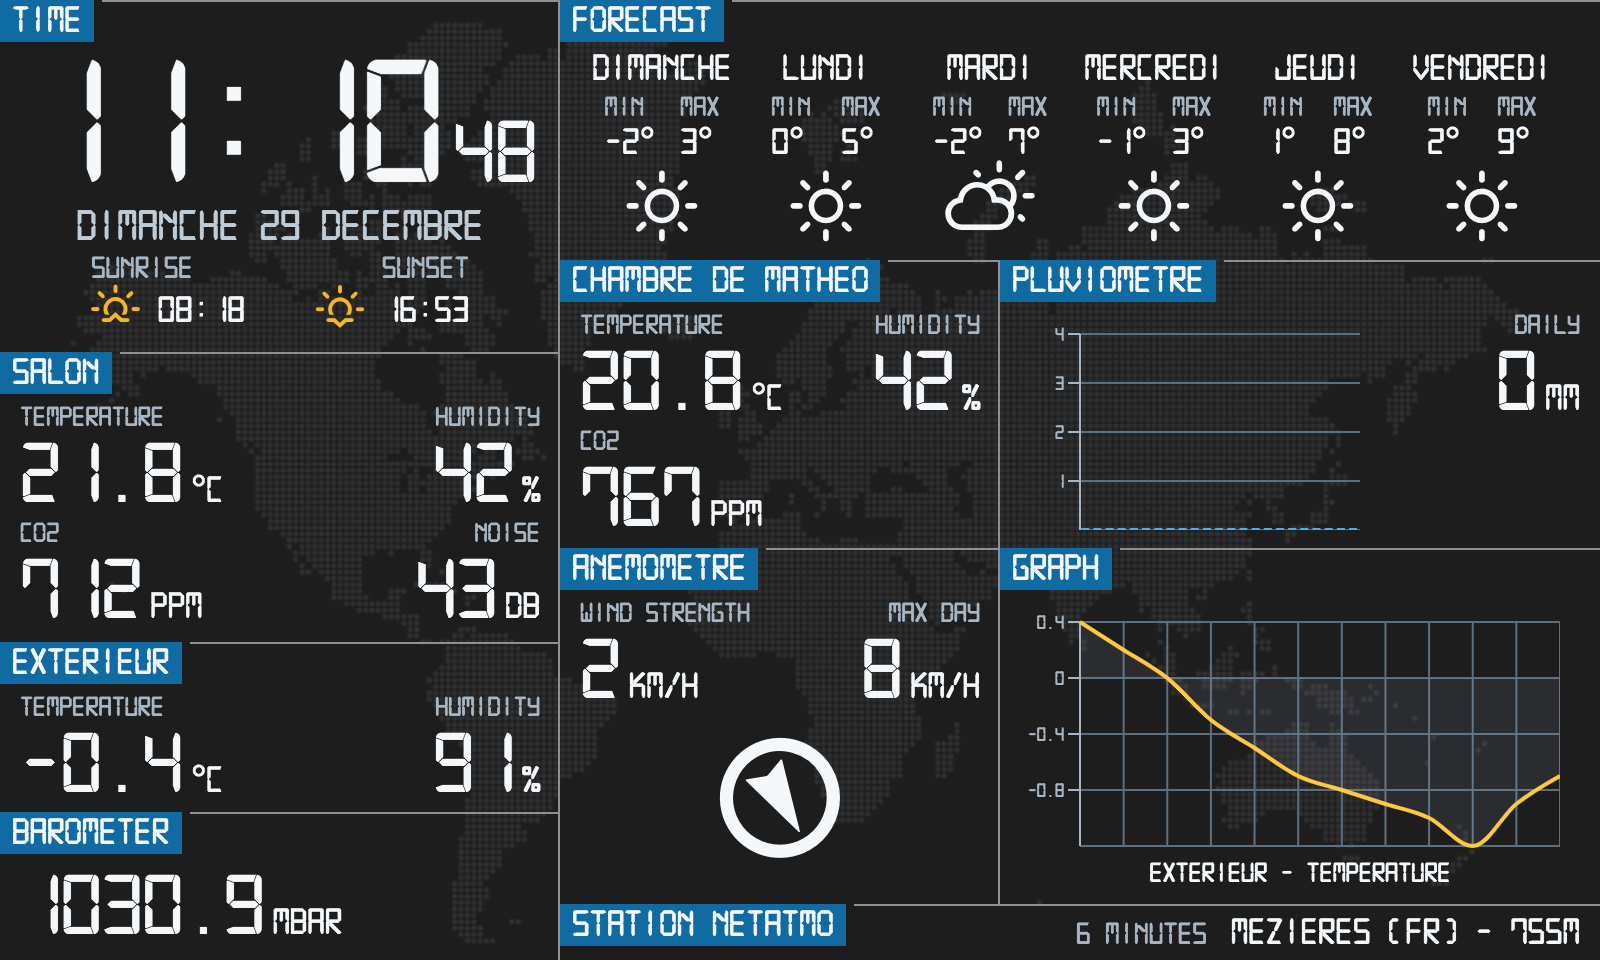
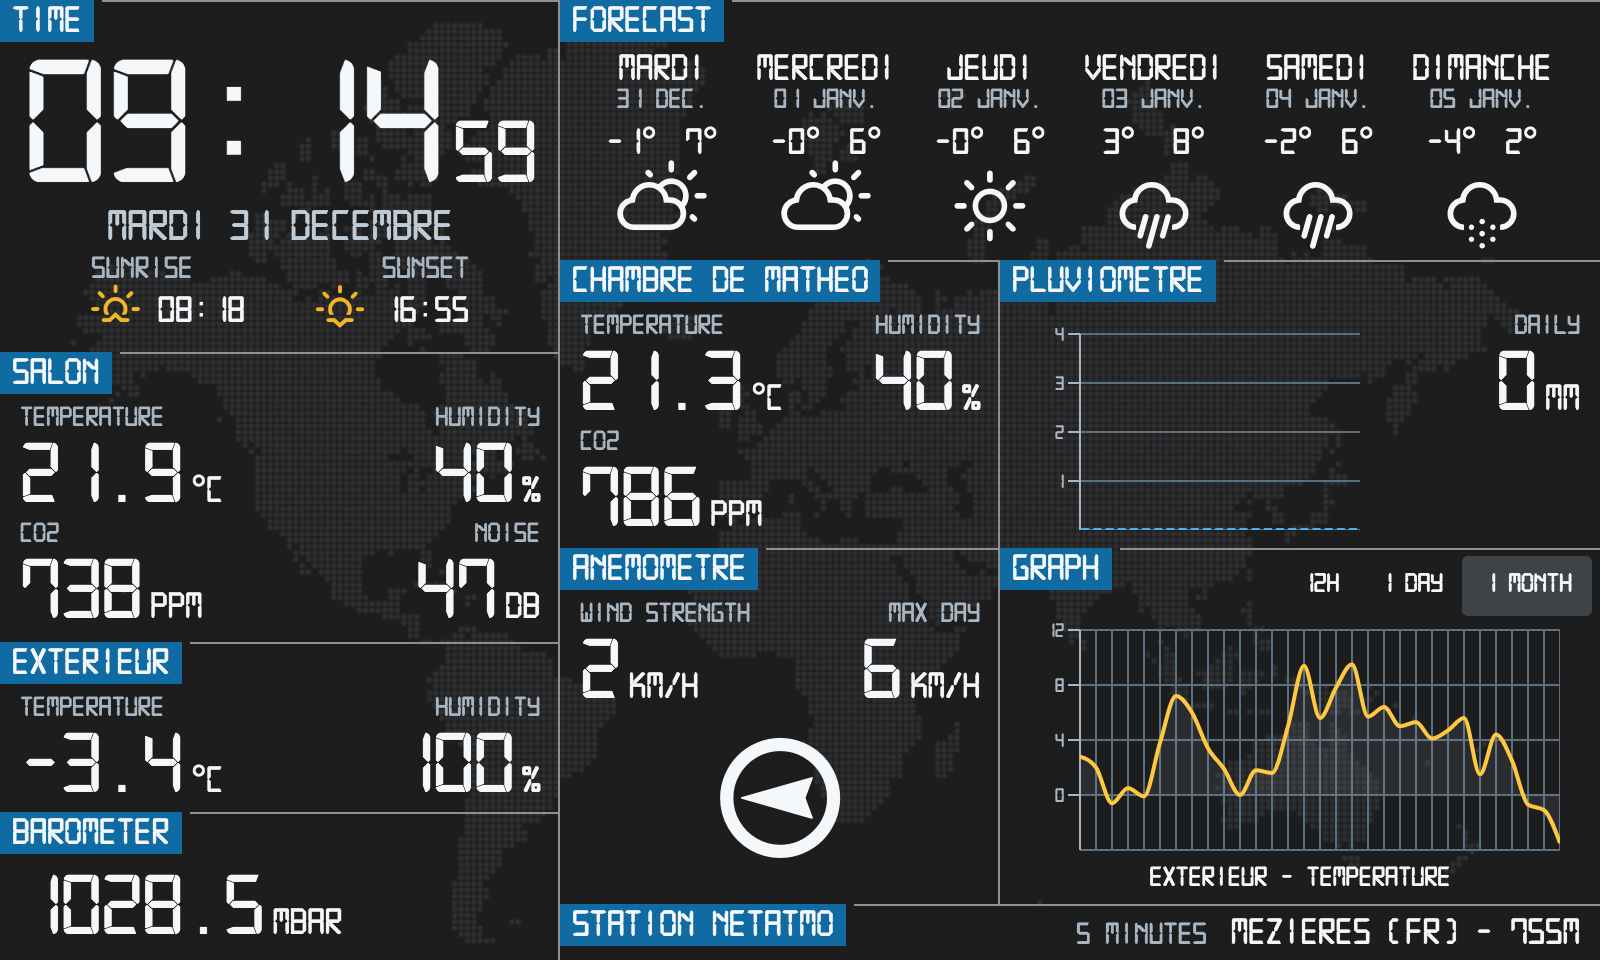
Add ability to change time lapse for graph between 12h, 1 day or 1 month

diff --git a/client/components/ModuleNetatmoGraph.tsx b/client/components/ModuleNetatmoGraph.tsx
@@ -1,22 +1,34 @@
 import React from 'react';
-import { Colors } from "@blueprintjs/core";
+import { Alignment, Button, ButtonGroup, Colors } from "@blueprintjs/core";
 import { AreaChart, Area, CartesianGrid, XAxis, YAxis } from 'recharts';
 import removeAccents from 'remove-accents';
 import ModuleLayout from "../layouts/ModuleLayout";
 import {Types} from "../models/NetatmoChartsData";
 import {colorChooser} from "../utils/tools";
 import {INetatmoNAMain} from "../models/NetatmoNAMain";
+import * as netatmoActions from "../store/netatmo/actions";
+import {ConnectedReduxProps} from "../store";
 
 // Separate state props + dispatch props to their own interfaces.
 interface IPropsFromState {
     measure_data: []
     selected_types: Types[]
-    selected_module: string,
+    selected_module: string
+    selected_timelapse: '12h'|'1d'|'1m'
     station_data: INetatmoNAMain|undefined
 }
 
+// We can use `typeof` here to map our dispatch types to the props, like so.
+interface IPropsFromDispatch {
+    [key: string]: any
+    fetchMeasure: typeof netatmoActions.fetchMeasure
+}
+
+// Combine both state + dispatch props - as well as any props we want to pass - in a union type.
+type AllProps = IPropsFromState & IPropsFromDispatch & ConnectedReduxProps;
+
 /** Rain module */
-class NetatmoModuleGraph extends React.Component<IPropsFromState> {
+class NetatmoModuleGraph extends React.Component<AllProps> {
 
     private findModuleName = (module_id: string) => {
         // @ts-ignore
@@ -37,6 +49,10 @@ class NetatmoModuleGraph extends React.Component<IPropsFromState> {
         }
     };
 
+    private handleOnclick = (timelapse: '12h'|'1d'|'1m'): void => {
+        this.props.fetchMeasure(this.props.station_data?.id as string, this.props.selected_module, this.props.selected_types, timelapse);
+    };
+
     public render() {
         return (
             <ModuleLayout
@@ -44,11 +60,25 @@ class NetatmoModuleGraph extends React.Component<IPropsFromState> {
                 reachable={true}
             >
                 <div className="modules-layout">
+                    <ButtonGroup className="toolbar" alignText={Alignment.CENTER} minimal={true}>
+                        <Button
+                            active={this.props.selected_timelapse === '12h'}
+                            onClick={() => this.handleOnclick('12h')}
+                        >12h</Button>
+                        <Button
+                            active={this.props.selected_timelapse === '1d'}
+                            onClick={() => this.handleOnclick('1d')}
+                        >1 day</Button>
+                        <Button
+                            active={this.props.selected_timelapse === '1m'}
+                            onClick={() => this.handleOnclick('1m')}
+                        >1 month</Button>
+                    </ButtonGroup>
                     <AreaChart
                         width={270}
-                        height={130}
+                        height={132}
                         data={this.props.measure_data}
-                        margin={{top: 10, right: 0, left: -30, bottom: 8}}
+                        margin={{top: 14, right: 0, left: -30, bottom: 8}}
                     >
                         <CartesianGrid stroke={Colors.GRAY1} />
                         <YAxis tick={{fontSize: '10px'}} stroke={Colors.GRAY4} minTickGap={1} />

diff --git a/client/store/netatmo/actions.ts b/client/store/netatmo/actions.ts
@@ -195,12 +195,13 @@ export const requestMeasure = () => {
 };
 
 // Todo types
-export const successMeasure = (data: any, module: string, types: string[]) => {
+export const successMeasure = (data: any, module: string, types: string[], timelapse: '12h'|'1d'|'1m') => {
     return {
         type: NetatmoActionTypes.MEASURE_SUCCESS,
         payload: data,
         module: module,
         types: types,
+        timelapse: timelapse,
         receivedAt: Date.now()
     }
 };
@@ -213,13 +214,33 @@ export const failureMeasure = (error: any) => {
     }
 };
 
-export const fetchMeasure = (device: string, module: string, type: string[], hours: number = 12, scale: Scale = '1hour'): ThunkAction<void, ApplicationState, null, Action<string>> => {
+export const fetchMeasure = (device: string, module: string, type: string[], timelapse: '12h'|'1d'|'1m'): ThunkAction<void, ApplicationState, null, Action<string>> => {
     return (dispatch, getState) => {
         // Get measure only if we have no data or if the last fetch is bigger than 10 minutes
-        if (getState().netatmo.measure_data.length === 0 || (getState().netatmo.selected_types[0] !== type[0] || getState().netatmo.selected_module !== module) || moment().diff(moment.unix(Number(getState().netatmo.station_data?.last_status_store)), 'minute') > 10) {
+        if (getState().netatmo.measure_data.length === 0 ||
+            (getState().netatmo.selected_types[0] !== type[0] || getState().netatmo.selected_module !== module) ||
+            getState().netatmo.selected_timelapse !== timelapse ||
+            moment().diff(moment.unix(Number(getState().netatmo.station_data?.last_status_store)), 'minute') > 10) {
             dispatch(requestMeasure());
 
-            const date_begin = moment().subtract(hours, 'hours').unix();
+            let date_begin;
+            let scale;
+
+            switch (timelapse) {
+                case "12h":
+                    date_begin = moment().subtract(11, 'hours').unix();
+                    scale = '30min';
+                    break;
+                case "1d":
+                    date_begin = moment().subtract(23, 'hours').unix();
+                    scale = '1hour';
+                    break;
+                case "1m":
+                    date_begin = moment().subtract(1, 'months').unix();
+                    scale = '1day';
+                    break;
+            }
+
             const date_end = moment().unix();
 
             return fetch(`${NETATMO_API_ROOT_URL}api/getmeasure?access_token=${getState().netatmo.access_token}&device_id=${device}&module_id=${module}&scale=${scale}&type=${type}&date_begin=${date_begin}&date_end=${date_end}&optimize=false`)
@@ -229,7 +250,7 @@ export const fetchMeasure = (device: string, module: string, type: string[], hou
                 })
                 .then(json => {
                     const dataChart = new NetatmoChartsData(json.body, type);
-                    dispatch(successMeasure(dataChart.data, module, type))
+                    dispatch(successMeasure(dataChart.data, module, type, timelapse))
                 })
                 .catch(error => {
                     // Todo types

diff --git a/client/components/ModuleNetatmoStation.tsx b/client/components/ModuleNetatmoStation.tsx
@@ -11,6 +11,7 @@ import {ConnectedReduxProps} from "../store";
 interface IPropsFromState {
     station_data: INetatmoNAMain|undefined
     device_id: string|undefined
+    selected_timelapse: '12h'|'1d'|'1m'
 }
 
 // We can use `typeof` here to map our dispatch types to the props, like so.
@@ -32,21 +33,21 @@ const NetatmoModuleStation: React.FunctionComponent<AllProps> = (props) => {
         >
             <div className="modules-layout">
                 <div className="row">
-                    <div className="temperature" onClick={() => props.fetchMeasure(props.device_id as string, props.device_id as string, ['Temperature'])}>
+                    <div className="temperature" onClick={() => props.fetchMeasure(props.device_id as string, props.device_id as string, ['Temperature'], props.selected_timelapse)}>
                         <div className="sub-label" style={{ color: Colors.GRAY4 }}>Temperature</div>
                         {props.station_data?.data?.temperature}<small>°C</small>
                     </div>
-                    <div className="humidity" onClick={() => props.fetchMeasure(props.device_id as string, props.device_id as string, ['Humidity'])}>
+                    <div className="humidity" onClick={() => props.fetchMeasure(props.device_id as string, props.device_id as string, ['Humidity'], props.selected_timelapse)}>
                         <div className="sub-label" style={{ color: Colors.GRAY4, textAlign: "right" }}>Humidity</div>
                         {props.station_data?.data?.humidity}<small>%</small>
                     </div>
                 </div>
                 <div className="row">
-                    <div className="co2" onClick={() => props.fetchMeasure(props.device_id as string, props.device_id as string, ['CO2'])}>
+                    <div className="co2" onClick={() => props.fetchMeasure(props.device_id as string, props.device_id as string, ['CO2'], props.selected_timelapse)}>
                         <div className="sub-label" style={{ color: Colors.GRAY4 }}>co2</div>
                         {props.station_data?.data?.co2}<small>ppm</small>
                     </div>
-                    <div className="noise" onClick={() => props.fetchMeasure(props.device_id as string, props.device_id as string, ['Noise'])}>
+                    <div className="noise" onClick={() => props.fetchMeasure(props.device_id as string, props.device_id as string, ['Noise'], props.selected_timelapse)}>
                         <div className="sub-label" style={{ color: Colors.GRAY4, textAlign: "right" }}>Noise</div>
                         {props.station_data?.data?.noise}<small>dB</small>
                     </div>

diff --git a/client/components/ModuleNetatmoIndoor.tsx b/client/components/ModuleNetatmoIndoor.tsx
@@ -11,6 +11,7 @@ import {ConnectedReduxProps} from "../store";
 interface IPropsFromState {
     module_data: INetatmoNAModule4|undefined
     device_id: string|undefined
+    selected_timelapse: '12h'|'1d'|'1m'
 }
 
 // We can use `typeof` here to map our dispatch types to the props, like so.
@@ -33,17 +34,17 @@ const NetatmoModuleIndoor: React.FunctionComponent<AllProps> = (props) => {
         >
             <div className="modules-layout">
                 <div className="row">
-                    <div className="temperature" onClick={() => props.fetchMeasure(props.device_id as string, props.module_data?.id as string, ['Temperature'])}>
+                    <div className="temperature" onClick={() => props.fetchMeasure(props.device_id as string, props.module_data?.id as string, ['Temperature'], props.selected_timelapse)}>
                         <div className="sub-label" style={{ color: Colors.GRAY4 }}>Temperature</div>
                         {props.module_data?.data?.temperature}<small>°C</small>
                     </div>
-                    <div className="humidity" onClick={() => props.fetchMeasure(props.device_id as string, props.module_data?.id as string, ['Humidity'])}>
+                    <div className="humidity" onClick={() => props.fetchMeasure(props.device_id as string, props.module_data?.id as string, ['Humidity'], props.selected_timelapse)}>
                         <div className="sub-label" style={{ color: Colors.GRAY4, textAlign: "right" }}>Humidity</div>
                         {props.module_data?.data?.humidity}<small>%</small>
                     </div>
                 </div>
                 <div className="row">
-                    <div className="co2" onClick={() => props.fetchMeasure(props.device_id as string, props.module_data?.id as string, ['CO2'])}>
+                    <div className="co2" onClick={() => props.fetchMeasure(props.device_id as string, props.module_data?.id as string, ['CO2'], props.selected_timelapse)}>
                         <div className="sub-label" style={{ color: Colors.GRAY4 }}>co2</div>
                         {props.module_data?.data?.co2}<small>ppm</small>
                     </div>

diff --git a/client/components/ModuleNetatmoOutdoor.tsx b/client/components/ModuleNetatmoOutdoor.tsx
@@ -11,6 +11,7 @@ import {ConnectedReduxProps} from "../store";
 interface IPropsFromState {
     module_data: INetatmoNAModule1|undefined
     device_id: string|undefined
+    selected_timelapse: '12h'|'1d'|'1m'
 }
 
 // We can use `typeof` here to map our dispatch types to the props, like so.
@@ -33,11 +34,11 @@ const NetatmoModuleOutdoor: React.FunctionComponent<AllProps> = (props) => {
         >
             <div className="modules-layout">
                 <div className="row">
-                    <div className="temperature" onClick={() => props.fetchMeasure(props.device_id as string, props.module_data?.id as string, ['Temperature'])}>
+                    <div className="temperature" onClick={() => props.fetchMeasure(props.device_id as string, props.module_data?.id as string, ['Temperature'], props.selected_timelapse)}>
                         <div className="sub-label" style={{ color: Colors.GRAY4 }}>Temperature</div>
                         {props.module_data?.data?.temperature}<small>°C</small>
                     </div>
-                    <div className="humidity" onClick={() => props.fetchMeasure(props.device_id as string, props.module_data?.id as string, ['Humidity'])}>
+                    <div className="humidity" onClick={() => props.fetchMeasure(props.device_id as string, props.module_data?.id as string, ['Humidity'], props.selected_timelapse)}>
                         <div className="sub-label" style={{ color: Colors.GRAY4, textAlign: "right" }}>Humidity</div>
                         {props.module_data?.data?.humidity}<small>%</small>
                     </div>

diff --git a/client/layouts/DashboardLayout.tsx b/client/layouts/DashboardLayout.tsx
@@ -11,6 +11,7 @@ interface IPropsFromState {
     station_data: INetatmoNAMain|undefined
     selected_module: string
     selected_types: Types[]
+    selected_timelapse: '12h'|'1d'|'1m'
 }
 
 // We can use `typeof` here to map our dispatch types to the props, like so.
@@ -34,7 +35,7 @@ class DashboardLayout extends React.Component<AllProps> {
         this.props.fetchDarksky();
 
         // Fetch on app load the temperature measure of Indoor module
-        this.props.fetchMeasure(this.props.station_data?.id as string, this.props.station_data?.modules.OUTDOOR?.id as string, ['Temperature']);
+        this.props.fetchMeasure(this.props.station_data?.id as string, this.props.station_data?.modules.OUTDOOR?.id as string, ['Temperature'], this.props.selected_timelapse);
 
         // Fetch on app load the rain measure
         if (this.props.station_data?.available_modules.RAIN) {
@@ -53,7 +54,7 @@ class DashboardLayout extends React.Component<AllProps> {
     }
 
     private fetchNetatmoModulesMeasures = (): void => {
-        this.props.fetchMeasure(this.props.station_data?.id as string, this.props.selected_module as string, this.props.selected_types);
+        this.props.fetchMeasure(this.props.station_data?.id as string, this.props.selected_module as string, this.props.selected_types, this.props.selected_timelapse);
 
         if (this.props.station_data?.available_modules.RAIN) {
             this.props.fetchRainMeasure(this.props.station_data?.id as string, this.props.station_data?.modules.RAIN?.id as string);

diff --git a/client/components/ModuleNetatmoRain.tsx b/client/components/ModuleNetatmoRain.tsx
@@ -11,6 +11,7 @@ import {ConnectedReduxProps} from "../store";
 interface IPropsFromState {
     module_data: INetatmoNAModule3|undefined
     device_id: string|undefined
+    selected_timelapse: '12h'|'1d'|'1m'
 }
 
 // We can use `typeof` here to map our dispatch types to the props, like so.
@@ -34,7 +35,7 @@ const NetatmoModuleRain: React.FunctionComponent<AllProps> = (props) => {
                     <div className="graph">
                         <ModuleNetatmoRainGraphContainer />
                     </div>
-                    <div className="rain-24" onClick={() => props.fetchMeasure(props.device_id as string, props.module_data?.id as string, ['Rain'])}>
+                    <div className="rain-24" onClick={() => props.fetchMeasure(props.device_id as string, props.module_data?.id as string, ['Rain'], props.selected_timelapse)}>
                         <div className="sub-label" style={{ color: Colors.GRAY4, textAlign: "right" }}>Daily</div>
                         {props.module_data?.data?.sum_rain_24 ? props.module_data?.data?.sum_rain_24.toFixed(1) : '0'}<small>mm</small>
                     </div>

diff --git a/client/components/ModuleNetatmoWind.tsx b/client/components/ModuleNetatmoWind.tsx
@@ -12,6 +12,7 @@ interface IPropsFromState {
     module_data: INetatmoNAModule2|undefined
     device_id: string|undefined
     unit: string
+    selected_timelapse: '12h'|'1d'|'1m'
 }
 
 // We can use `typeof` here to map our dispatch types to the props, like so.
@@ -33,7 +34,7 @@ const NetatmoModuleWind: React.FunctionComponent<AllProps> = (props) => {
         >
             <div className="modules-layout">
                 <div className="row">
-                    <div className="wind-strength" onClick={() => props.fetchMeasure(props.device_id as string, props.module_data?.id as string, ['windStrength'])}>
+                    <div className="wind-strength" onClick={() => props.fetchMeasure(props.device_id as string, props.module_data?.id as string, ['windStrength'], props.selected_timelapse)}>
                         <div className="sub-label" style={{ color: Colors.GRAY4 }}>Wind strength</div>
                         {props.module_data?.data?.wind_strength}<small>{props.unit}</small>
                     </div>

diff --git a/client/layouts/DashboardLayoutContainer.ts b/client/layouts/DashboardLayoutContainer.ts
@@ -8,13 +8,14 @@ import { ApplicationState } from "../store";
 const mapStateToProps = ({ netatmo}: ApplicationState) => ({
     station_data: netatmo.station_data,
     selected_module: netatmo.selected_module,
-    selected_types: netatmo.selected_types
+    selected_types: netatmo.selected_types,
+    selected_timelapse: netatmo.selected_timelapse
 });
 
 const mapDispatchToProps = (dispatch: ThunkDispatch<any, any, any>) => ({
     fetchDarksky: () => dispatch(darkskyActions.fetchDarksky()),
     fetchStationData: () => dispatch(netatmoActions.fetchStationData()),
-    fetchMeasure: (device: string, module: string, type: string[]) => dispatch(netatmoActions.fetchMeasure(device, module, type)),
+    fetchMeasure: (device: string, module: string, type: string[], timelapse: '12h'|'1d'|'1m') => dispatch(netatmoActions.fetchMeasure(device, module, type, timelapse)),
     fetchRainMeasure: (device: string, module: string) => dispatch(netatmoActions.fetchRainMeasure(device, module)),
 });
 

diff --git a/client/components/ModuleNetatmoBarometer.tsx b/client/components/ModuleNetatmoBarometer.tsx
@@ -10,6 +10,7 @@ interface IPropsFromState {
     pressure?: number
     unit: string
     device_id: string|undefined
+    selected_timelapse: '12h'|'1d'|'1m'
 }
 
 // We can use `typeof` here to map our dispatch types to the props, like so.
@@ -31,7 +32,7 @@ const NetatmoModuleBarmometer: React.FunctionComponent<AllProps> = (props) => {
         >
             <div className="modules-layout">
                 <div className="row">
-                    <div className="pressure" onClick={() => props.fetchMeasure(props.device_id as string, props.device_id as string, ['Pressure'])}>
+                    <div className="pressure" onClick={() => props.fetchMeasure(props.device_id as string, props.device_id as string, ['Pressure'], props.selected_timelapse)}>
                         {props.pressure}<small>{props.unit}</small>
                     </div>
                 </div>

diff --git a/client/containers/ModuleNetatmoGraphContainer.ts b/client/containers/ModuleNetatmoGraphContainer.ts
@@ -2,16 +2,18 @@ import { connect } from 'react-redux'
 import { ThunkDispatch } from "redux-thunk";
 import ModuleNetatmoGraph from "../components/ModuleNetatmoGraph";
 import {ApplicationState} from "../store";
+import * as netatmoActions from "../store/netatmo/actions";
 
 const mapStateToProps = ({ netatmo}: ApplicationState) => ({
     measure_data: netatmo.measure_data,
     selected_types: netatmo.selected_types,
     selected_module: netatmo.selected_module,
+    selected_timelapse: netatmo.selected_timelapse,
     station_data: netatmo.station_data
 });
 
 const mapDispatchToProps = (dispatch: ThunkDispatch<any, any, any>) => ({
-
+    fetchMeasure: (device: string, module: string, type: string[], timelapse: '12h'|'1d'|'1m') => dispatch(netatmoActions.fetchMeasure(device, module, type, timelapse)),
 });
 
 const ModuleNetatmoRainGraphContainer = connect(

diff --git a/client/containers/ModuleNetatmoWindContainer.ts b/client/containers/ModuleNetatmoWindContainer.ts
@@ -8,11 +8,12 @@ import {Scale} from "../models/NetatmoChartsData";
 const mapStateToProps = ({ netatmo, application}: ApplicationState) => ({
     module_data: netatmo.station_data?.modules.WIND,
     device_id: netatmo.station_data?.id,
-    unit: application.user.windunit
+    unit: application.user.windunit,
+    selected_timelapse: netatmo.selected_timelapse
 });
 
 const mapDispatchToProps = (dispatch: ThunkDispatch<any, any, any>) => ({
-    fetchMeasure: (device: string, module: string, type: string[], hours?: number, scale?: Scale) => dispatch(netatmoActions.fetchMeasure(device, module, type, hours, scale))
+    fetchMeasure: (device: string, module: string, type: string[], timelapse: '12h'|'1d'|'1m') => dispatch(netatmoActions.fetchMeasure(device, module, type, timelapse))
 });
 
 const ModuleNetatmoWindContainer = connect(
